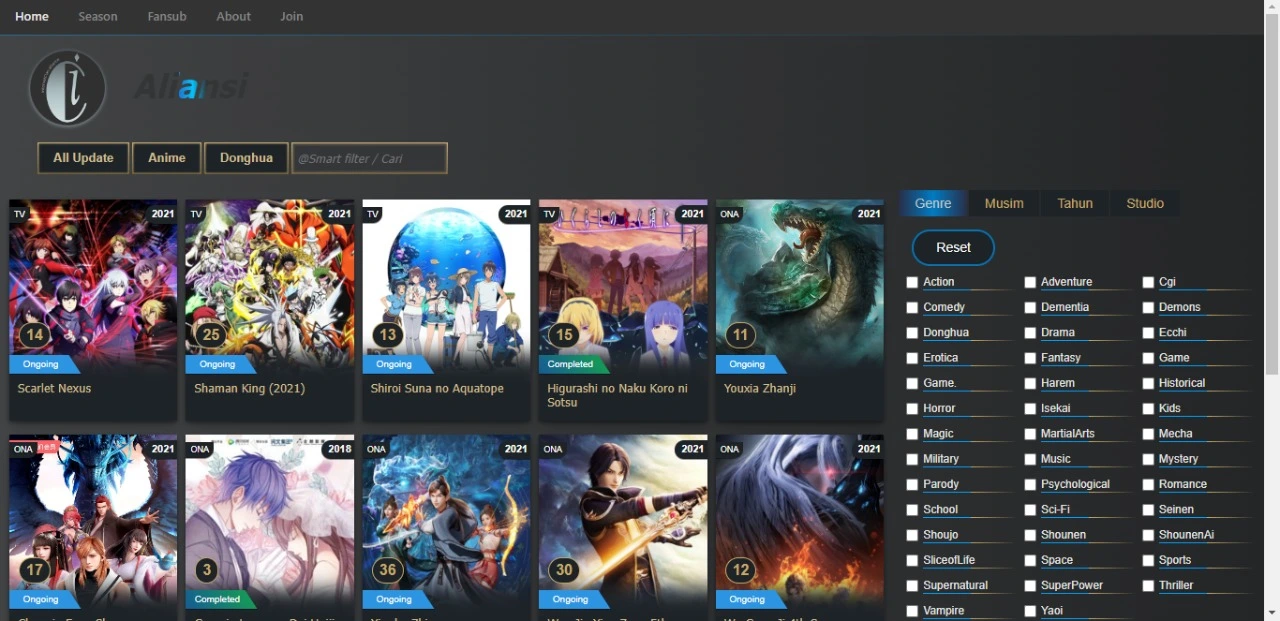
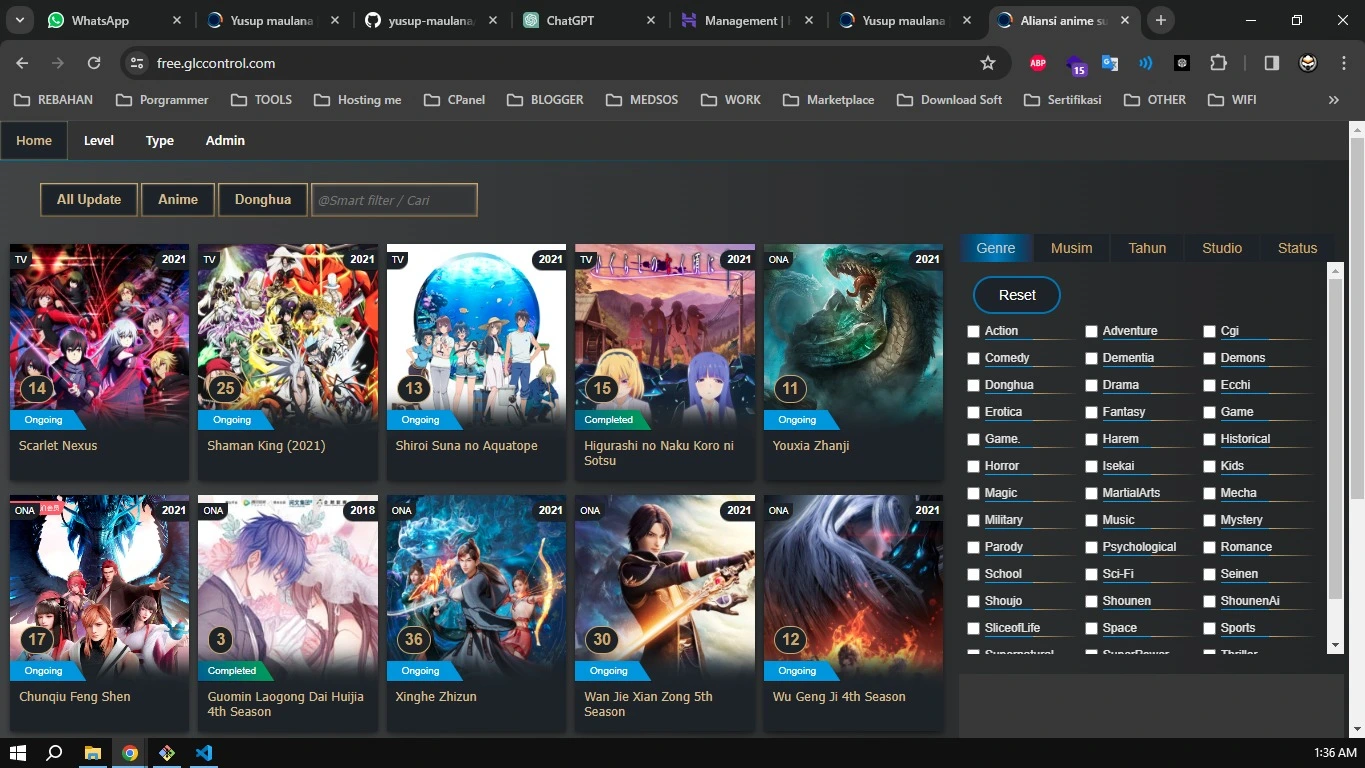
portofolio anime on

diff --git a/portofolio-webanime.html b/portofolio-webanime.html
@@ -112,7 +112,7 @@
     border-style: solid;
     border-width: 2px 2px 2px 2px;
     border-color: rgba(255, 255, 255, 0.333);
-    border-radius: 40px 40px 40px 40px;
+    border-radius: 40px 0px 0px 40px;
     padding: 16px 24px 16px 28px;
     transform: translate(0px, 0px) rotate(0deg);
     transition: 0.2s;
@@ -129,126 +129,166 @@
   .btn-portofolio:active {
     box-shadow: none;
   }
+
+  .btn-git {
+    display: flex;
+    color: #fff900 !important;
+    align-items: center;
+    justify-content: center;
+    gap: 10px;
+    font-family: inherit;
+    font-size: 13px;
+    font-weight: 500;
+    text-transform: uppercase;
+    letter-spacing: 0.4px;
+    color: #7e97b8;
+    background-color: #1f2122;
+    border-style: solid;
+    border-width: 2px 2px 2px 2px;
+    border-color: rgba(255, 255, 255, 0.333);
+    border-radius: 0px 40px 40px 0px;
+    padding: 16px 24px 16px 28px;
+    transform: translate(0px, 0px) rotate(0deg);
+    transition: 0.2s;
+    box-shadow: -4px -2px 16px 0px #ffffff,
+      4px 2px 16px 0px rgb(95 157 231 / 48%);
+  }
+
+  .btn-git:hover {
+    color: #516d91;
+    background-color: #000000;
+    box-shadow: -2px -1px 8px 0px #ffffff, 2px 1px 8px 0px rgb(95 157 231 / 48%);
+  }
+
+  .btn-git:active {
+    box-shadow: none;
+  }
+  .flex {
+    display: flex;
+  }
+  .flex a {
+    width: 100%;
+  }
 </style>
 <div class="container-wisata">
   <div class="boxwisata">
-    <img alt="Curug Cipalasari" src="IMG/websiteanime/webanime1.webp" />
+    <img alt="Login Page" src="IMG/websiteanime/webanime1.webp" />
     <span>Login Page</span>
   </div>
   <div class="boxwisata">
     <img alt="Curug Cipalasari" src="IMG/websiteanime/webanime2.webp" />
-    <span>Laporan</span>
+    <span>Beranda</span>
   </div>
   <div class="boxwisata">
     <img alt="Curug Cipalasari" src="IMG/websiteanime/webanime3.webp" />
-    <span>Dana Kelola</span>
+    <span>Inside</span>
   </div>
 </div>
 <br />
 
 <body class="body2">
-  <a
-    class="btn-portofolio"
-    target="_blank"
-    href="https://maulanaproject1.000webhostapp.com/"
-  >
-    <svg
-      viewBox="0 0 24 24"
-      width="24"
-      height="24"
-      stroke="currentColor"
-      stroke-width="2"
-      fill="none"
-      stroke-linecap="round"
-      stroke-linejoin="round"
-      class="css-i6dzq1"
+  <div class="flex">
+    <a
+      class="btn-portofolio"
+      target="_blank"
+      href="https://free.glccontrol.com/"
     >
-      <polygon points="13 2 3 14 12 14 11 22 21 10 12 10 13 2"></polygon>
-    </svg>
-    Demo : Klik di sini
-  </a>
+      <svg
+        viewBox="0 0 24 24"
+        width="24"
+        height="24"
+        stroke="currentColor"
+        stroke-width="2"
+        fill="none"
+        stroke-linecap="round"
+        stroke-linejoin="round"
+        class="css-i6dzq1"
+      >
+        <polygon points="13 2 3 14 12 14 11 22 21 10 12 10 13 2"></polygon>
+      </svg>
+      Demo : Klik di sini
+    </a>
+    <a
+      class="btn-git"
+      target="_blank"
+      href="https://github.com/yusup-maulana/WEB-ANIME"
+    >
+      <svg
+        viewBox="0 0 24 24"
+        width="24"
+        height="24"
+        stroke="currentColor"
+        stroke-width="2"
+        fill="none"
+        stroke-linecap="round"
+        stroke-linejoin="round"
+        class="css-i6dzq1"
+      >
+        <polygon points="13 2 3 14 12 14 11 22 21 10 12 10 13 2"></polygon>
+      </svg>
+      Fork on Github
+    </a>
+  </div>
   <br />
-  Admin page :
 
-  <a
-    target="_blank"
-    href="https://maulanaproject1.000webhostapp.com/anime/admin_utama.php"
+  <h1>
+    Template Web Khusus Layanan Video Pihak Ketiga: Kesederhanaan yang Memukau
+  </h1>
+
+  <h2>Tampilan Front-end yang Elegan</h2>
+  <p>
+    Ketika pertama kali mengunjungi halaman depan template, pengunjung akan
+    langsung disuguhi dengan tampilan full-width dan pilihan sidebar yang
+    elegan. Di sini secara default, menampilkan sejumlah video terupdate.
+  </p>
+
+  <h2>Tampilan yang Unik dan Single Page</h2>
+  <p>
+    Dengan menerapkan teknologi Single Page Application (SPA), pengalaman
+    pengguna ditingkatkan. Halaman ini meminimalkan kebutuhan untuk mereload
+    seluruh halaman, sehingga memberikan navigasi yang lebih mulus dan efisien.
+    Saat menggulir halaman, pengunjung akan dengan cepat menyadari detail
+    tampilan yang sangat apik.
+  </p>
+
+  <p>
+    Latar belakang web disusun dari sekelompok gradiasi yang dirancang untuk
+    tidak membuat mata lelah. Ilustrasi gambar di web dihadirkan dalam format
+    kotak, memberikan tampilan yang rapi dan teratur. Demikian juga dengan
+    judul-judul posting yang dibingkai dengan warna gelap yang mencolok,
+    menambahkan sentuhan visual yang menarik.
+  </p>
+
+  <h2>Kustomisasi yang Luas</h2>
+  <p>
+    Memiliki fleksibilitas untuk menambahkan banyak kategori berdasarkan tahun,
+    genre, musim, type, level, dan studio. Ini memungkinkan Anda untuk mengatur
+    konten dengan rapi dan memudahkan pengguna dalam menemukan apa yang mereka
+    cari.
+  </p>
+
+  <h3>Admin Page:</h3>
+  <a target="_blank" href="https://free.glccontrol.com/admin/index.php"
     >Klik disini</a
   >
-  <header>
-    <h2>
-      Template Web Khusus Layanan Video Pihak Ketiga: Kesederhanaan yang Memukau
-    </h2>
-  </header>
+  <p>
+    Username: admin<br />
+    Password: admin
+  </p>
 
-  <section>
-    <h2>Tampilan Front-end yang Elegan</h2>
-    <p>
-      Ketika pertama kali mengunjungi halaman depan template, pengunjung akan
-      langsung disuguhi dengan tampilan full-width slider yang elegan. Di
-      sinilah Anda dapat menampilkan sejumlah video unggulan yang ingin Anda
-      tampilkan kepada pengguna Anda.
-    </p>
-  </section>
-
-  <section>
-    <h2>Tampilan yang Detail dan Menawan</h2>
-    <p>
-      Saat menggulir halaman, pengunjung akan dengan cepat menyadari detail
-      tampilan yang sangat apik. Latar belakang web disusun dari sekelompok
-      gradiasi yang dirancang untuk tidak membuat mata lelah. Ilustrasi gambar
-      di web dihadirkan dalam format kotak, memberikan tampilan yang rapi dan
-      teratur. Demikian juga dengan judul-judul posting yang dibingkai dengan
-      warna gelap yang mencolok, menambahkan sentuhan visual yang menarik.
-    </p>
-  </section>
-
-  <section>
-    <h2>Kustomisasi yang Luas</h2>
-    <p>
-      Anda memiliki fleksibilitas untuk menambahkan banyak kategori berdasarkan
-      tahun, genre, musim, dan studio. Ini memungkinkan Anda untuk mengatur
-      konten dengan rapi dan memudahkan pengguna dalam menemukan apa yang mereka
-      cari.
-    </p>
-  </section>
-
-  <section>
-    <h2>Fitur Unggulan:</h2>
-    <ul>
-      <li>
-        Pratinjau konten dari resolusi gambar HD melalui slider lebar penuh.
-      </li>
-      <li>
-        Dapat diakses dengan baik melalui perangkat mobile, tablet, laptop, dan
-        PC.
-      </li>
-      <li>
-        Icons yang intuitif untuk mempercepat pengunjung dalam menavigasi situs.
-      </li>
-      <li>
-        Efek hover yang mempercantik tampilan web sekaligus membantu pengguna
-        mengenali tautan.
-      </li>
-      <li>Cocok digunakan untuk usaha layanan web video pihak ketiga.</li>
-      <li>
-        Admin page yang sederhana dan efisien untuk mengelola tautan dengan
-        presisi, sangat ramah pengguna.
-      </li>
-    </ul>
-  </section>
-
-  <section>
-    <h2>Teknologi:</h2>
-    <ul>
-      <li>HTML</li>
-      <li>PHP 5</li>
-      <li>CSS</li>
-      <li>Javascript</li>
-      <li>jQuery 2.2.0</li>
-      <li>jQuery UI 1.12.1</li>
-      <li>Bootstrap</li>
-      <li>MYSQL</li>
-    </ul>
-  </section>
+  <h2>Teknologi:</h2>
+  <ul>
+    <li>HTML</li>
+    <li>PHP 7.4.33</li>
+    <li>CSS</li>
+    <li>Javascript</li>
+    <li>jQuery Migrate 3.4.0</li>
+    <li>jQuery 2.2.0</li>
+    <li>jQuery UI 1.12.1</li>
+    <li>Bootstrap 4.3.1</li>
+    <li>MYSQL</li>
+    <li>Font Awesome 4.7.0</li>
+    <li>Select2</li>
+    <li>cbox</li>
+  </ul>
 </body>

diff --git a/index.html b/index.html
@@ -17610,7 +17610,7 @@
               <h5 class="card-title">Website Video Anime</h5>
               <p class="card-text" style="font-size: smaller;">Sebuah Website single page pengelola link video /
                 template web didesain khusus untuk layanan video dari pihak ketiga</p>
-              <a target="_blank" href="https://maulanaproject1.000webhostapp.com/" class="btn btn-info btn-sm">Demo <svg
+              <a target="_blank" href="https://free.glccontrol.com/" class="btn btn-info btn-sm">Demo <svg
                   viewBox="0 0 24 24">
                   <path fill="currentColor"
                     d="M19 3C20.1 3 21 3.9 21 5V19C21 20.1 20.1 21 19 21H5C3.9 21 3 20.1 3 19V5C3 3.9 3.9 3 5 3H19M8.7 8L10.8 10.1L7 14L9.8 16.8L13.6 12.9L15.7 15V8H8.7Z" />
